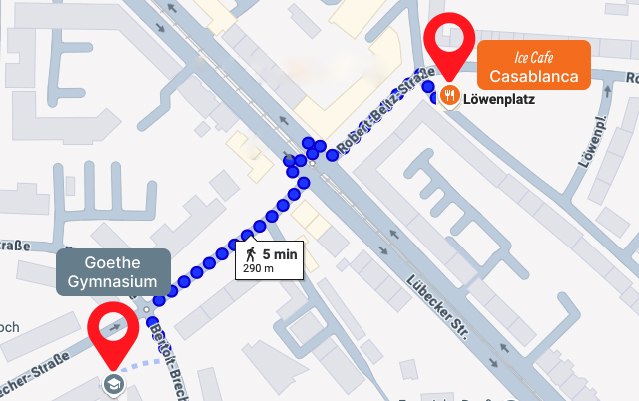
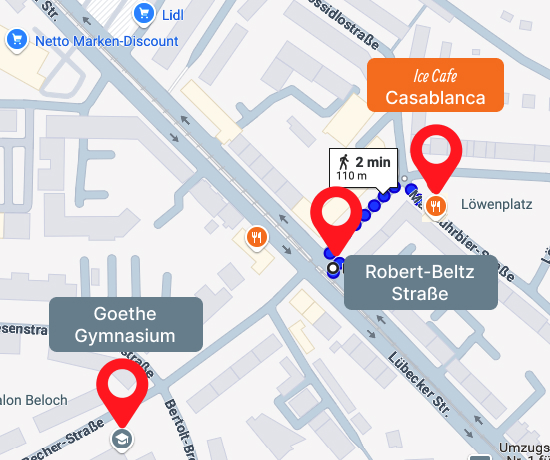
0.15.1	Fix page contacts

diff --git a/src/app/pages/location-page/location-page.component.scss b/src/app/pages/location-page/location-page.component.scss
@@ -40,10 +40,16 @@
 .contacts__item_email {
   background: url("/image/svg/mail.svg") 0 0 no-repeat;
 }
+.contacts__item_bus {
+  background: url("/image/svg/bus.svg") 0 0 no-repeat;
+}
+.contacts__item_school {
+  background: url("/image/svg/school.svg") 0 0 no-repeat;
+}
 
 .map__item {
   width: 85dvw;
-  max-width: 600px;
+  max-width: 550px;
   border-radius: 24px;
   overflow: hidden;
   display: flex;
@@ -54,7 +60,7 @@
 .item-image {
   position: relative;
   display: block;
-  padding-bottom: 65%; /* 194/394 */
+  padding-bottom: 83%;
 }
 .item-image img {
   position: absolute;

diff --git a/src/app/pages/location-page/location-page.component.html b/src/app/pages/location-page/location-page.component.html
@@ -20,3 +20,12 @@
     <img src="/image/contacts/address.jpg" alt="Address" />
   </a>
 </div>
+
+<div class="contacts mb16">
+  <li class="contacts__item contacts__item_bus">
+    2 Min. von Station Robert-Beltz-Straße
+  </li>
+  <li class="contacts__item contacts__item_school">
+    5 Min. von Goethe-Gymnasium
+  </li>
+</div>

diff --git a/src/styles.scss b/src/styles.scss
@@ -57,3 +57,11 @@ li {
 .mt16 {
   margin-top: 1rem;
 }
+
+.bold {
+  font-weight: 600;
+}
+
+.underline {
+  text-decoration: underline;
+}
